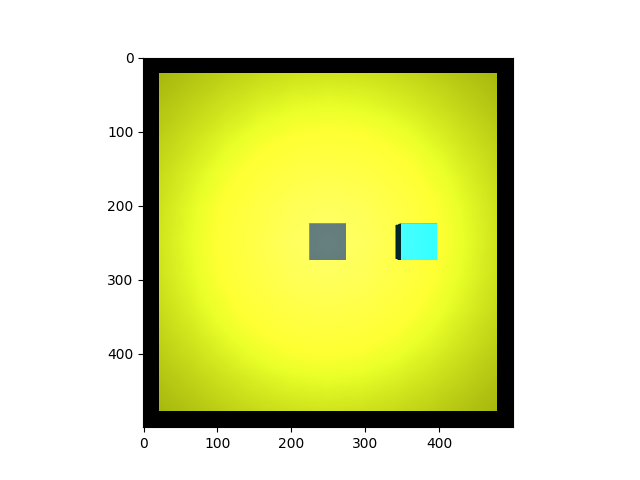
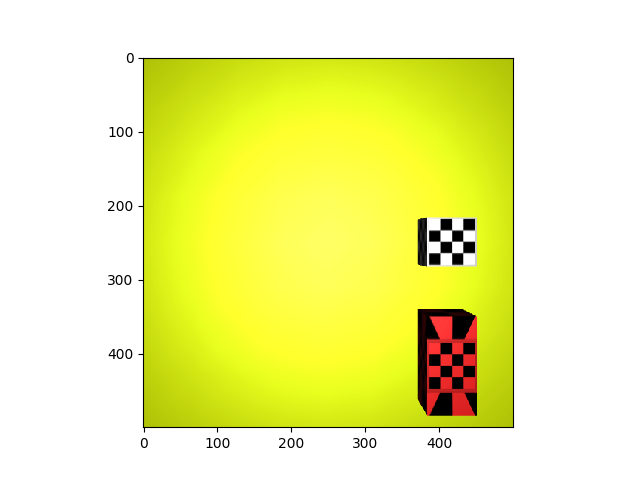
add basic textures

Changed region(s): [[0.2188, 0.125, 0.8125, 0.9062], [0.4688, 0.4375, 0.5625, 0.5625]]

diff --git a/rendering_sources/create_xml.py b/rendering_sources/create_xml.py
@@ -4,16 +4,26 @@ import sys
 
 xml_prefix = """\
 <mujoco>
+   <asset>
+      <texture file="../checkerboard.png" type="cube" name="checker" />
+      <material name="checker-cube" reflectance="0.9" texrepeat="10.5 10.5" texture="checker" texuniform="true" />
+      <texture file="../sphere.png" type="2d" name="checker-sph" />
+      <material name="checker-sphere" reflectance="0.9" texrepeat="15 15" texture="checker-sph" texuniform="true" />
+   </asset>
    <worldbody>
       <light diffuse=".5 .5 .5" pos="0 0 3" dir="0 0 -1"/>
       <geom type="plane" size="1 1 0.1" rgba=".9 1 0 1"/>
      <body pos="0.5 0 0.1">
          <joint type="free"/>
-         <geom type="box" size=".1 .1 .1" rgba="0 .9 1 1"/>
+         <geom type="box" size=".1 .1 .1" material="checker-cube" />
       </body>
-      <body pos="0 0 0.1">
+      <body pos="0.5 0.5 0.1">
          <joint type="free"/>
-         <geom type="box" size=".1 .1 .1" rgba="0 .1 0.1 1"/>
+         <geom type="box" size=".1 .2 .1" material="checker-cube" rgba="1 .1 0.1 1"/>
+      </body>
+    <body pos="1 0 0.1">
+         <joint type="free"/>
+         <geom type="sphere" size=".1 .1 .1" material="checker-sphere" />
       </body>
 """
 
@@ -25,7 +35,7 @@ xml_suffix = """\
 
 camera_name = sys.argv[1]
 camera_line = f"""\
-        <camera axisangle="0 1 0 180" fovy="45" name="{camera_name}" pos="0 0 2"></camera>
+        <camera axisangle="0 1 0 0" fovy="45" name="{camera_name}" pos="0 0 2"></camera>
 """
 
 xml_string = xml_prefix + camera_line + xml_suffix
